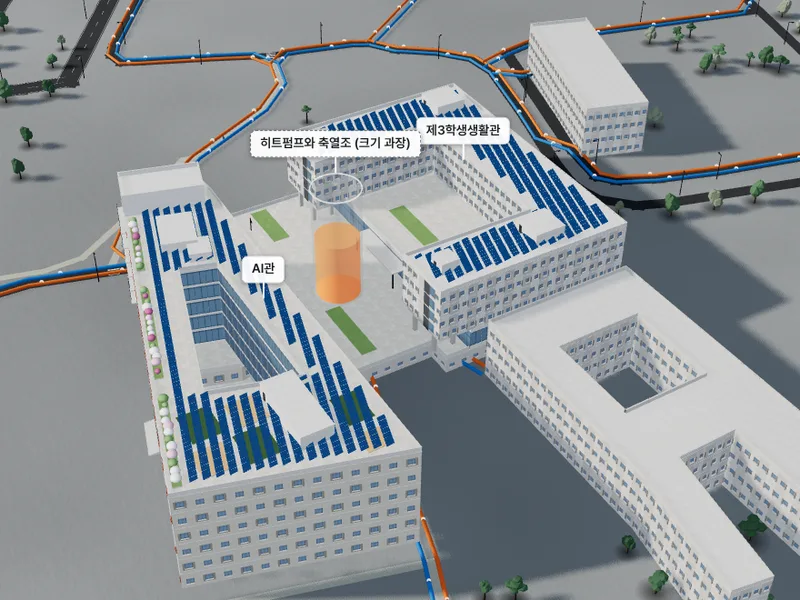
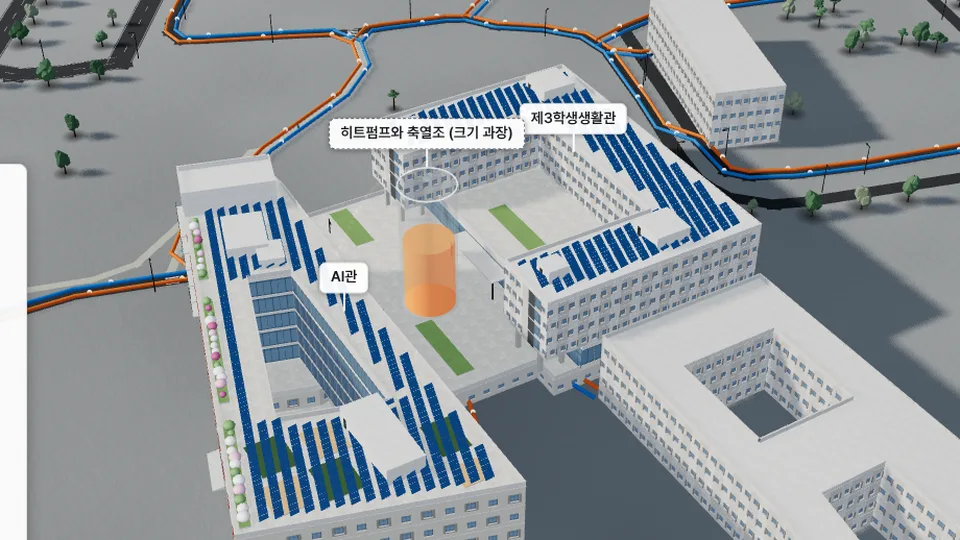
Showcase: RenerGIS cover from its landing page; 16:9 cover images
Claude-Session: https://claude.ai/code/session_011XDPJEL8U9taNkVg98H4gc

diff --git a/index.html b/index.html
@@ -114,7 +114,7 @@ section.blk{padding:112px 0}
 /* ---------- Research ---------- */
 .areas{display:grid;grid-template-columns:repeat(3,1fr);border-top:1px solid var(--line);border-left:1px solid var(--line)}
 .area{background:#fff;border-right:1px solid var(--line);border-bottom:1px solid var(--line);display:flex;flex-direction:column;transition:background .3s}
-.area figure{aspect-ratio:4/3;overflow:hidden;background:var(--paper)}
+.area figure{aspect-ratio:4/3;overflow:hidden;background:var(--paper)}#home-showcase .area figure{aspect-ratio:16/9}
 .area figure img{width:100%;height:100%;object-fit:cover;transition:transform .7s}
 .area:hover figure img{transform:scale(1.04)}
 .area .bd{padding:28px 28px 30px;display:flex;flex-direction:column;flex:1}
@@ -1137,7 +1137,7 @@ btn.addEventListener('click',()=>{if(v.paused){v.play();userPaused=false;btn.tex
 
 go(curHash()||'home',false);
 </script>
-<script type="application/json" id="showcaseData">[{"id": "5gdhc-gachon", "area": "network", "status": "live", "title": "5세대 지역냉난방 실증", "en": "5GDHC Campus Demonstration", "x": "가천대 AI관·제3학생생활관 실증 설비와 구상 열네트워크를 3D 장면으로 따라가며 5GDHC, P2H, 예측 제어를 설명합니다.", "tags": ["5GDHC", "P2H", "MPC"], "url": "/showcase/5gdhc/", "ext": false, "img": "assets/uploads/2026/11/showcase/5gdhc.webp", "d": "2026-11"}, {"id": "renergis", "area": "district", "status": "live", "title": "산업단지 RE100 RenerGIS", "en": "Industrial Complex RE100 Simulator", "x": "산업단지 건물별 PV·PVT·ST·ESS·CHP 도입을 지도 위에서 시뮬레이션하고 RE100 달성률, 탄소 감축량, 20년 NPV를 보고서로 냅니다.", "tags": ["PVT", "ESS", "RE100"], "url": "https://kier-renergis.com/how-it-works", "ext": true, "img": "assets/uploads/2026/10/industrial-complex-renergis.webp", "d": "2026-11"}, {"id": "apartment-hp", "area": "building", "status": "hidden", "title": "공동주택 공기열 히트펌프", "en": "", "x": "", "tags": ["HP", "MPC", "DRL"], "url": "", "ext": false, "img": "", "d": ""}]</script>
+<script type="application/json" id="showcaseData">[{"id": "5gdhc-gachon", "area": "network", "status": "live", "title": "5세대 지역냉난방 실증", "en": "5GDHC Campus Demonstration", "x": "가천대 AI관·제3학생생활관 실증 설비와 구상 열네트워크를 3D 장면으로 따라가며 5GDHC, P2H, 예측 제어를 설명합니다.", "tags": ["5GDHC", "P2H", "MPC"], "url": "/showcase/5gdhc/", "ext": false, "img": "assets/uploads/2026/11/showcase/5gdhc.webp", "d": "2026-11"}, {"id": "renergis", "area": "district", "status": "live", "title": "산업단지 RE100 RenerGIS", "en": "Industrial Complex RE100 Simulator", "x": "산업단지 건물별 PV·PVT·ST·ESS·CHP 도입을 지도 위에서 시뮬레이션하고 RE100 달성률, 탄소 감축량, 20년 NPV를 보고서로 냅니다.", "tags": ["PVT", "ESS", "RE100"], "url": "https://kier-renergis.com/how-it-works", "ext": true, "img": "assets/uploads/2026/11/showcase/renergis.webp", "d": "2026-11"}, {"id": "apartment-hp", "area": "building", "status": "hidden", "title": "공동주택 공기열 히트펌프", "en": "", "x": "", "tags": ["HP", "MPC", "DRL"], "url": "", "ext": false, "img": "", "d": ""}]</script>
 <script>
 (function(){
   const box=document.getElementById('scCards');if(!box)return;
